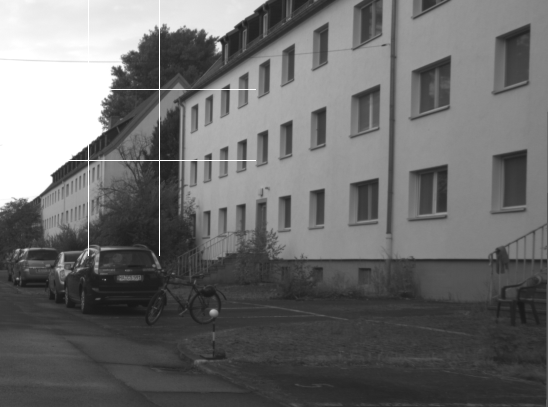
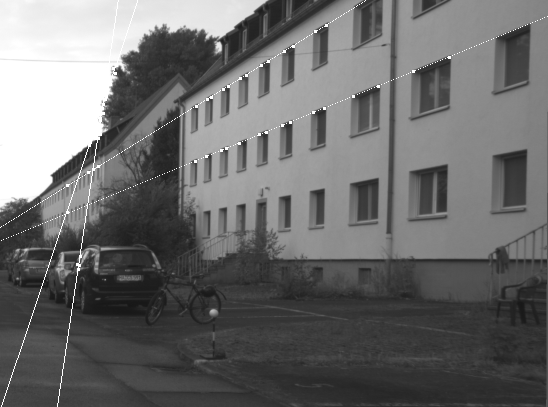
complete

diff --git a/hw2/hough.py b/hw2/hough.py
@@ -67,17 +67,22 @@ def drawPerpendicular(image,rho,theta, points,max_value, road):
             if val >= 0 and val <= image.shape[1]:
                 image[i][int(val)] = max_value
                 road[i][int(val)] = 255
+        # put a 3x3 box around a point on the line if it is within bounds
+        for point in points:
+            if point[0]>=1 and point[0]<=image.shape[1]-1 and point[1]>=1 and image.shape[0]-1:
+                val = int(intercept + slope * point[0])
+                if abs(val-point[1]) <= 2:
+                    image[-1+point[0]:point[0]+2,-1+point[1]:point[1]+2] = max_value
+                    road[-1+point[0]:point[0]+2,-1+point[1]:point[1]+2] = 255
     #horizontal line
     else:
         for i in range(image.shape[1]):
             if int(x) >= 0 and int(x) <= image.shape[1]:
                 image[int(x)][i] = max_value
                 road[int(x)][i] = 255
-
-if __name__ == "__main__":
-    image = imageio.imread('canny.gif')
-    print(image.shape)
-    x = 11
-    image = hough(image,1000,180)
-    plt.imshow(image,cmap='gray')
-    plt.show()
+        # put a 3x3 box around a point on the line if it is within bounds
+        for point in points:
+            if point[0]>=1 and point[0]<=image.shape[1]-1 and point[1]>=1 and image.shape[0]-1:
+                if abs(point[0] - int(x)) <=2:
+                    image[-1+point[0]:point[0]+2,-1+point[1]:point[1]+2] = max_value
+                    road[-1+point[0]:point[0]+2,-1+point[1]:point[1]+2] = 255
